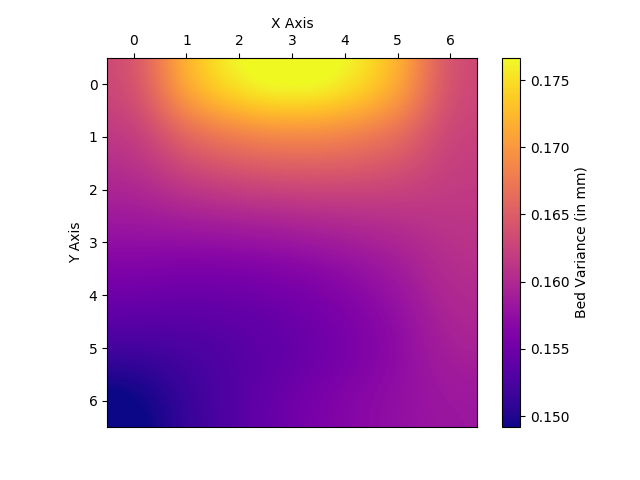
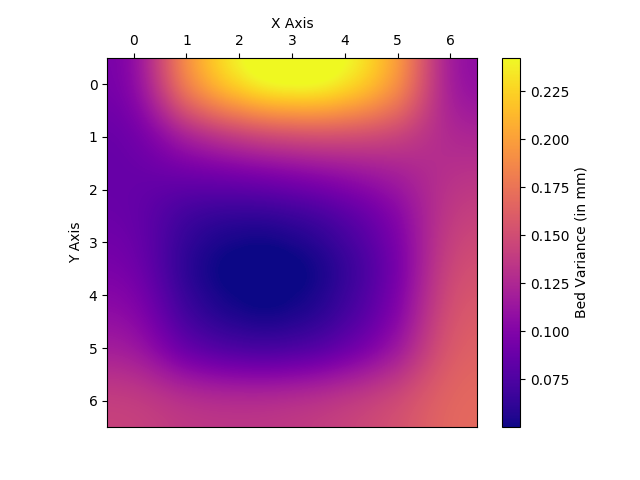
Adding .gitignore to ignore my g81-venv directory

diff --git a/g81-to-heatmap.py b/g81-to-heatmap.py
@@ -12,13 +12,13 @@ import matplotlib.pyplot as plt
 # Your regex replace rules below will clean it
 # and make it ready for conversion to a list of
 # float values.
-g81_output_raw = """  0.13083  0.13491  0.13713  0.13750  0.13602  0.13269  0.12750
-  0.12806  0.13072  0.13214  0.13231  0.13124  0.12893  0.12537
-  0.12667  0.12803  0.12871  0.12870  0.12800  0.12662  0.12454
-  0.12667  0.12685  0.12685  0.12667  0.12630  0.12574  0.12500
-  0.12806  0.12717  0.12655  0.12620  0.12612  0.12631  0.12676
-  0.13083  0.12899  0.12782  0.12731  0.12748  0.12831  0.12981
-  0.13500  0.13231  0.13065  0.13000  0.13037  0.13176  0.13417"""
+g81_output_raw = """  0.10667  0.18056  0.22583  0.24250  0.23056  0.19000  0.12083
+  0.09296  0.12148  0.14083  0.15102  0.15204  0.14389  0.12657
+    0.08685  0.08265  0.08321  0.08852  0.09858  0.11340  0.13296
+      0.08833  0.06407  0.05296  0.05500  0.07019  0.09852  0.14000
+        0.09741  0.06574  0.05009  0.05046  0.06685  0.09926  0.14769
+          0.11407  0.08765  0.07460  0.07491  0.08858  0.11562  0.15602
+            0.13833  0.12981  0.12648  0.12833  0.13537  0.14759  0.16500"""
 
 # Define your regex rules here depending on how
 # your raw output looks. Ultimately, you want to
